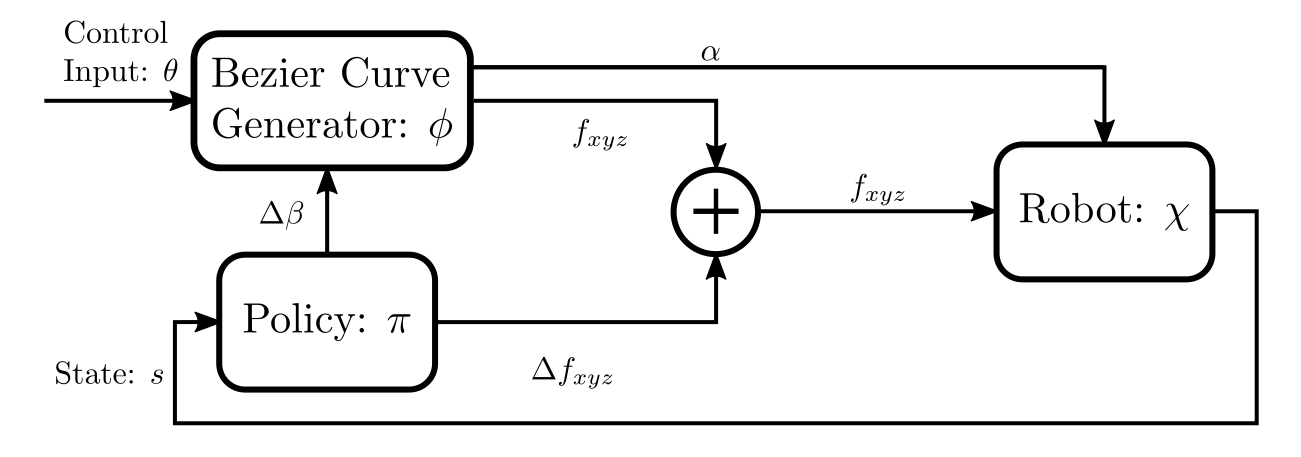
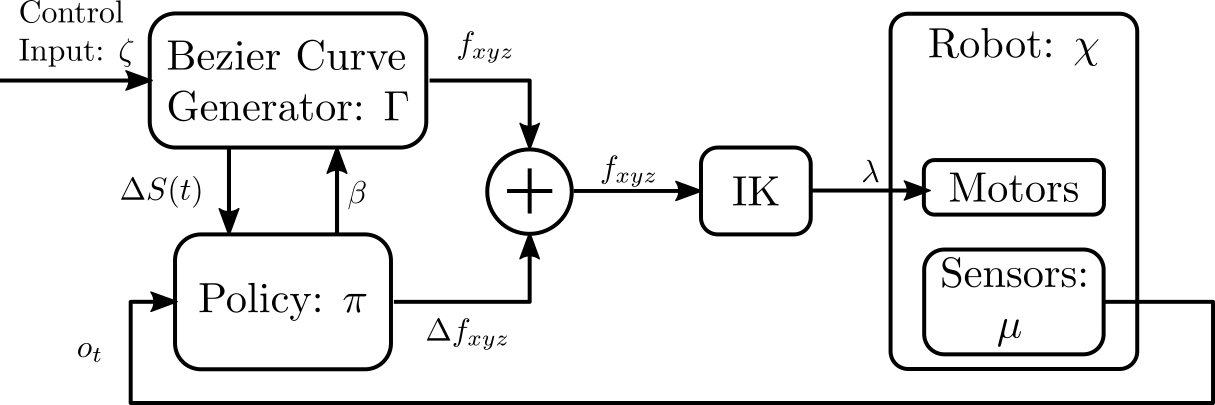
mod spot mini

Changed region(s): [[0.0, 0.0, 1.0, 1.0]]

diff --git a/_projects/2020-06-05-spot-mini-mini.md b/_projects/2020-06-05-spot-mini-mini.md
@@ -7,29 +7,18 @@ featured_image: '/images/Projects/spot-mini-mini/spot_hello.gif'
 ---
 
 ## Project Overview
-The goal of this project was to create a **quadruped platform for reinforcement learning tasks under $600**. First, I built a **Pybullet environment** using the open-source Spot Micro CAD models (and later my own). Then, I deployed a 12-point Bezier gait scheme and used it as a baseline for Reinforcement Learning tasks on various terrain environments. After building this original version, I collaborated with a friend to mechanically redesign Spot for higher fidelity, and more optimal weight distribution. Check out the package on [Github](https://github.com/moribots/spot_mini_mini)!
+The goal of this project was to create a **quadruped platform for reinforcement learning tasks under $600**. First, I built a Pybullet environment using the open-source Spot Micro CAD models (and later my own - **OpenQuadruped**). I used this platform to validate my novel sim-to-real RL method: D$^2$-GMBC. After building this original version, I collaborated with a friend to mechanically redesign Spot for higher fidelity, and more optimal weight distribution. Check out the package on [Github](https://github.com/moribots/spot_mini_mini)!
 
 <div class="gallery" data-columns="1">
 	<img src="/images/Projects/spot-mini-mini/spot_hello.gif" style="width: 80%">
 </div>
 
-## Sim2Real: Gait Modulation with Bezier Curves
-My experience with locomotive RL is that it is mostly limited to demonstrative tasks (walk forward, stand up, etc) with little real-world use. Using this platform, I propose a **novel reinforcement learning method** that seeks to deliver a robust and universally controllable gait. It builds on an existing gait scheme using **12-point Bezier curves** which allow for any **combination** of forward, lateral, and yaw **commands** at user-defined step heights, lengths, and speeds. The method wraps a learning agent around this scheme to **modulate gait parameters** such as step and body height, and to add significant **residuals** to the resultant foot coordinates. The only sensor used here is an IMU. After simulating training for 1 hour on a CPU (\~500 epochs), I was able to achieve the following real-world results, where the **agent** is shown on the **right**.
+## Dynamics and Domain Randomized Gait Modulation with Bezier Curves for Sim-to-Real Legged Locomotion
+Using this platform, I propose a data-efficient novel reinforcement learning method that seeks to deliver a robust and universally controllable gait without contact or environment sensing. It builds on an existing gait scheme using 12-point **Bezier curves** which I modify to allow for any combination of forward, lateral, and yaw commands at user-defined step heights, lengths, and speeds. The method wraps a learning agent around this scheme to **modulate gait parameters** such as step and body height, and to add significant **residuals** to the resultant foot coordinates. The only sensor used here is an IMU. To read more about this approach, and to **access the paper**, please visit this [website](https://sites.google.com/view/d2gmbc/home)!
 
-<div class="gallery" data-columns="2">
-	<img src="/images/Projects/spot-mini-mini/V_descent.gif" style="width: 100%">
-	<img src="/images/Projects/spot-mini-mini/A_descent.gif" style="width: 100%">
-</div>
+<iframe width="560" height="315" src="https://www.youtube.com/embed/4YRmh9kNtdc" frameborder="0" allow="accelerometer; autoplay; clipboard-write; encrypted-media; gyroscope; picture-in-picture" allowfullscreen></iframe>
 
-The best part is that even though the agent was only **trained** to walk **forward**, it responds to previously **unseen commands** such as **yaw** and **lateral** motion! This means that you can finally use RL on a real robot! Keep in mind that this is all done on a $600 platform!
-
-<div class="gallery" data-columns="1">
-	<img src="/images/Projects/spot-mini-mini/spot_lateral_agent.gif" style="width: 70%">
-</div>
-
-<div class="gallery" data-columns="1">
-	<img src="/images/Projects/spot-mini-mini/spot_new_universal.gif" style="width: 70%">
-</div>
+<center><a href="https://sites.google.com/view/d2gmbc/home" class="button button--large" download="PATBLC.zip">Access Paper</a></center>
 
 ## Inverse Kinematics
 After deriving the [Inverse Kinematics](https://www.researchgate.net/publication/320307716_Inverse_Kinematic_Analysis_Of_A_Quadruped_Robot) for each leg, the next step was to describe the IK for the body itself. The approach used here considers a **world frame** $w$, which is the robot centroid's base position, and a **body frame** $b$, describing the robot's pose relative to the world frame. In addition, we have $T_{ws}$, which is a transform from the world frame to the robot's shoulder: this describes the base transform between the robot centroid and the shoulder. Finally, we have our inputs: $T_{wb}$, which describes the desired transform from **world** to **body** (RPY and Translation), and $T_{bf}$, the desired **foot** position relative to the transformed **body** - this is useful for gait generation. The output of our process is $T_{sf}$, the transform between each **shoulder** and its respective **foot** required to achieve this motion - this is fed into the leg IK solver to retrieve joint angles. The gallery below shows our inputs and outputs. Note that this diagram is facing the robot, so the example shown is for **body roll**.
@@ -46,35 +35,24 @@ Here's a gif of the body IK in action:
 
 
 ## Bezier Gait
-The [Bezier Gait](https://dspace.mit.edu/handle/1721.1/98270) deployed in this project uses a closed-loop trajectory generator, which resets whenever the reference foot (front left) hits the ground after a swing. The Bezier curve for the Swing period is made up of 12 points, where some of them overlap to induce zero vertical velocities or changes in foot direction. The Table and image below summarize the gait:
+The [Bezier Gait](https://dspace.mit.edu/handle/1721.1/98270) deployed in this project uses a open-loop trajectory generator, which resets when the desired stride period is completed. The basic adaptation of the Bezier curve generator gives 2D foot coordinates over time: horizontal and vertical. In section V of the [paper](https://sites.google.com/view/d2gmbc/home), I describe my method for extending the trajectories into 3D. The algorithm and schematic are shown below:
 
 
-<div class="gallery" data-columns="1">
-	<img src="/images/Projects/spot-mini-mini/bezier.jpg" style="width: 60%">
-	<img src="/images/Projects/spot-mini-mini/bezier_points.png" style="width: 120%">
+<div class="gallery" data-columns="2">
+	<img src="/images/Projects/spot-mini-mini/BEZ_ALGO.png" style="width: 100%">
+	<img src="/images/Projects/spot-mini-mini/IKBezier.png" style="width: 100%">
 </div>
 
-For the Stance portion of the gait, we simply deploy a sinusoidal curve whose z-amplitude is the desired penetration depth and whose x-amplitude is the half the Stride Length. Note, for y-coordinate foot motion, we apply the same Bezier and Sinusoidal curves as for x-coordinate motions.
+Here's what the **translational** and **yaw** gaits look like:
 
-Here's what this looks like on Spot:
-<div class="gallery" data-columns="1">
-	<img src="/images/Projects/spot-mini-mini/spot_bezier.gif" style="width: 50%">
-</div>
-
-I implemented Yaw control based on [this paper](http://www.inase.org/library/2014/santorini/bypaper/ROBCIRC/ROBCIRC-54.pdf) which treats the quadruped as a four-wheel steering car. The intuition here is that to turn clockwise, both front feet should move towards the rear-left, and both back feet should move towards the rear-right of the robot during the stance phase. To adequately trace a circular path while doing this, the directional vector of each foot is modulated at each iteration by $\theta_{mod}$ to remain tangent to said circle. This is calculated using $arctan (\frac{M_{mod}}{M_{base}})$, where $M_{mod}$ is the change in magnitude of the commanded foot coordinates relative to the stance coordinates, and $M_{base}$ is the magnitude of the $x$ and $y$ elements of the shoulder-to-foot vector in stance mode.
-
-<div class="gallery" data-columns="1">
-	<img src="/images/Projects/spot-mini-mini/YawLogic.png" style="width: 100%">
-</div>
-
-Here's what this looks like on Spot:
-<div class="gallery" data-columns="1">
-	<img src="/images/Projects/spot-mini-mini/spot_yaw.gif" style="width: 50%">
+<div class="gallery" data-columns="2">
+	<img src="/images/Projects/spot-mini-mini/spot_bezier.gif" style="width: 100%">
+	<img src="/images/Projects/spot-mini-mini/spot_yaw.gif" style="width: 100%">
 </div>
 
 ## Gym Environment and Terrain
 
-The environment provided here is largely derived from Pybullet's **minitaur** example. In fact, it is nearly identical aside from accounting for the differences in the robots themselves. Another difference is the terrain used in the environment, which is an optional programmatically generated heightfield triggered at the command-line. You should experiment with the meshscale argument as well, as this will change the characteristics of your terrain. This environment is great for locomotive reinforcement learning tasks! Notice that if we increase the mesh size, and hence the terrain's roughness, the robot loses the ability to traverse it:
+The environment provided here is largely derived from Pybullet's **minitaur** example. In fact, it is nearly identical aside from accounting for the differences in the robots themselves. Another difference is the terrain used in the environment, which is an optional programmatically generated heightfield triggered at the command-line. You should experiment with the meshscale argument as well, as this will change the characteristics of your terrain. This environment is great for locomotive reinforcement learning tasks! Notice that if we increase the mesh height, traverse it:
 
 <div class="gallery" data-columns="2">
 	<img src="/images/Projects/spot-mini-mini/spot_new_demo.gif" style="width: 100%">
@@ -83,30 +61,36 @@ The environment provided here is largely derived from Pybullet's **minitaur** ex
 
 ### Reinforcement Learning Task
 
-To allow for stable terrain traversal, I trained an [Augmented Random Search](https://arxiv.org/pdf/1803.07055.pdf) agent with a 12-dimensional observation space [**IMU Inputs** (8), **Leg Phases** (4)] and a 14-dimensional action space [**Clearance Height** (1), **Body Height** (1), and **Foot XYZ Residual** modulations (12)] processed through an exponential filter with **alpha = 0.7**, the agent was able to traverse the light terrain in as little as 150 epochs, and on terrain of twice the height (shown above) in 500 epochs.
+To allow for stable terrain traversal, I trained an [Augmented Random Search](https://arxiv.org/pdf/1803.07055.pdf) agent with a 12-dimensional observation space [**IMU Inputs** (8), **Leg Phases** (4)] and a 14-dimensional action space [**Clearance Height** (1), **Body Height** (1), and **Foot XYZ Residual** modulations (12)] processed through an exponential filter with **alpha = 0.7**, the agent was able to traverse the light terrain in as little as 150 epochs.
 
 <div class="gallery" data-columns="1">
 	<img src="/images/Projects/spot-mini-mini/spot_rough_ARS.gif" style="width: 70%">
 </div>
 
-Here is a system diagram describing the **Gait Modulation with Bezier Curves** method:
+Here's a system diagram and algorithm for the D$^2$-GMBC process:
 
-<div class="gallery" data-columns="1">
-	<img src="/images/Projects/spot-mini-mini/GMBC_SM.png" style="width: 70%">
+<div class="gallery" data-columns="2">
+	<img src="/images/Projects/spot-mini-mini/GMBC_SM.png" style="width: 100%">
+	<img src="/images/Projects/spot-mini-mini/GMBC_ALGO.png" style="width: 100%">
 </div>
 
 ### Real World Validation
 
-Here are some additional takes where the agent is on the right!
-
-<!-- <div class="gallery" data-columns="2">
-	<img src="/images/Projects/spot-mini-mini/spot_vanilla_fall.gif" style="width: 100%">
-	<img src="/images/Projects/spot-mini-mini/spot_agent_walk.gif" style="width: 100%">
-</div> -->
+Here are some additional results, where D$^2$-GMBC is shown on the **right**.
 
 <div class="gallery" data-columns="2">
-	<img src="/images/Projects/spot-mini-mini/V2_3.gif" style="width: 100%">
-	<img src="/images/Projects/spot-mini-mini/T2_1.gif" style="width: 100%">
+	<img src="/images/Projects/spot-mini-mini/V_descent.gif" style="width: 100%">
+	<img src="/images/Projects/spot-mini-mini/A_descent.gif" style="width: 100%">
+</div>
+
+The best part is that even though the agent was only **trained** to walk **forward**, it responds to previously **unseen commands** such as **yaw** and **lateral** motion! This means that you can finally use RL on a real robot! Keep in mind that this is all done on a $600 platform!
+
+<div class="gallery" data-columns="1">
+	<img src="/images/Projects/spot-mini-mini/spot_lateral_agent.gif" style="width: 70%">
+</div>
+
+<div class="gallery" data-columns="1">
+	<img src="/images/Projects/spot-mini-mini/spot_new_universal.gif" style="width: 70%">
 </div>
 
 ### Mechanical Redesign
